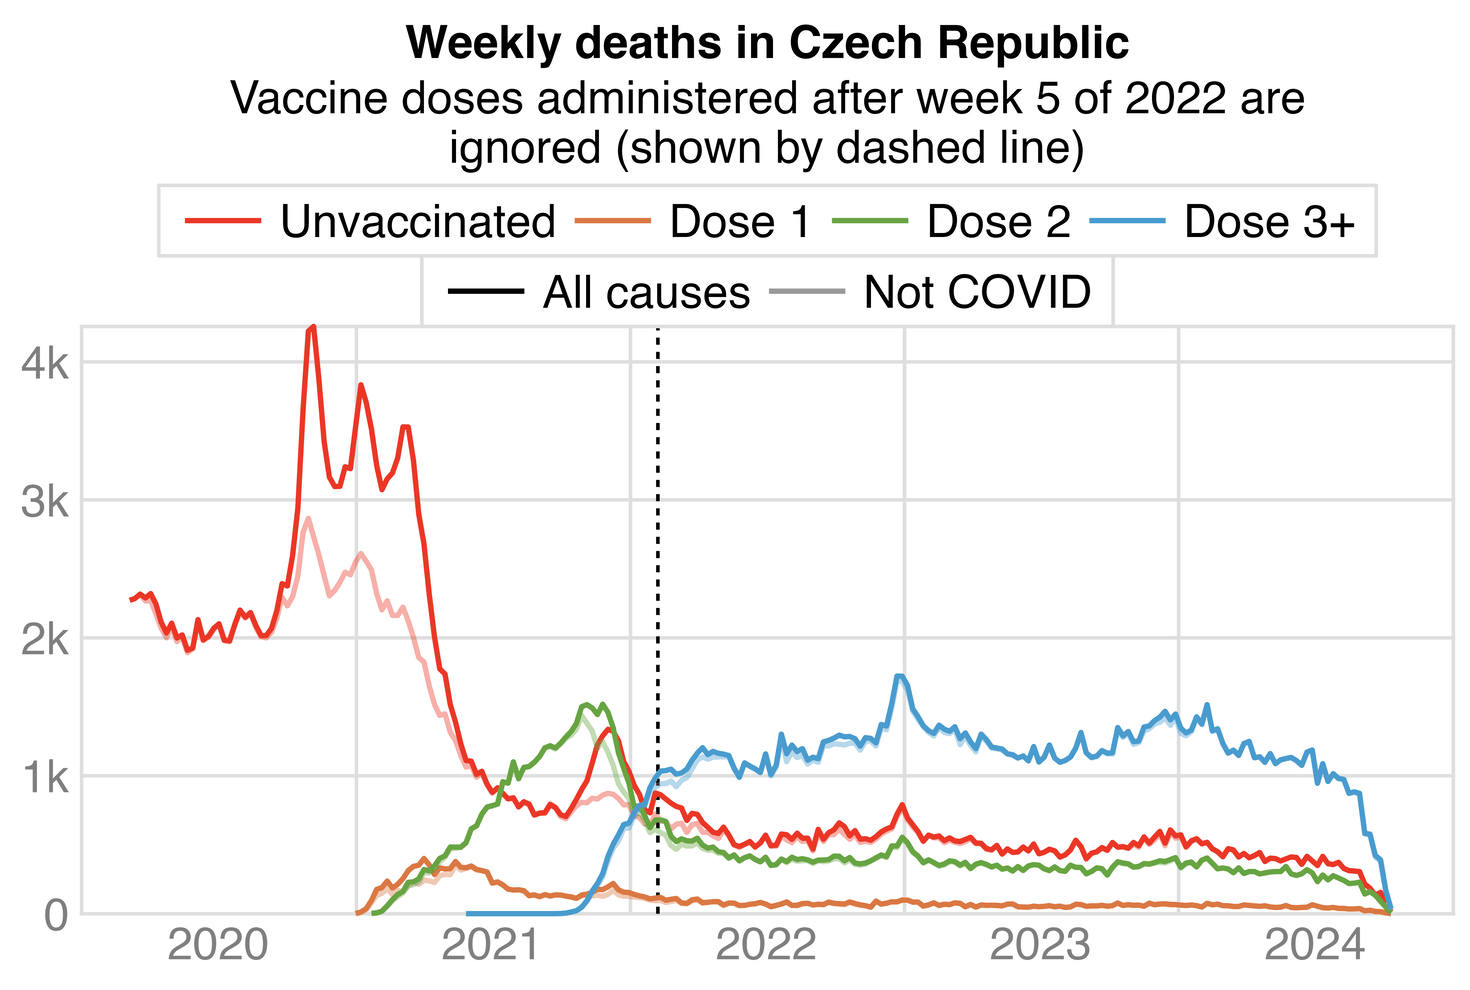
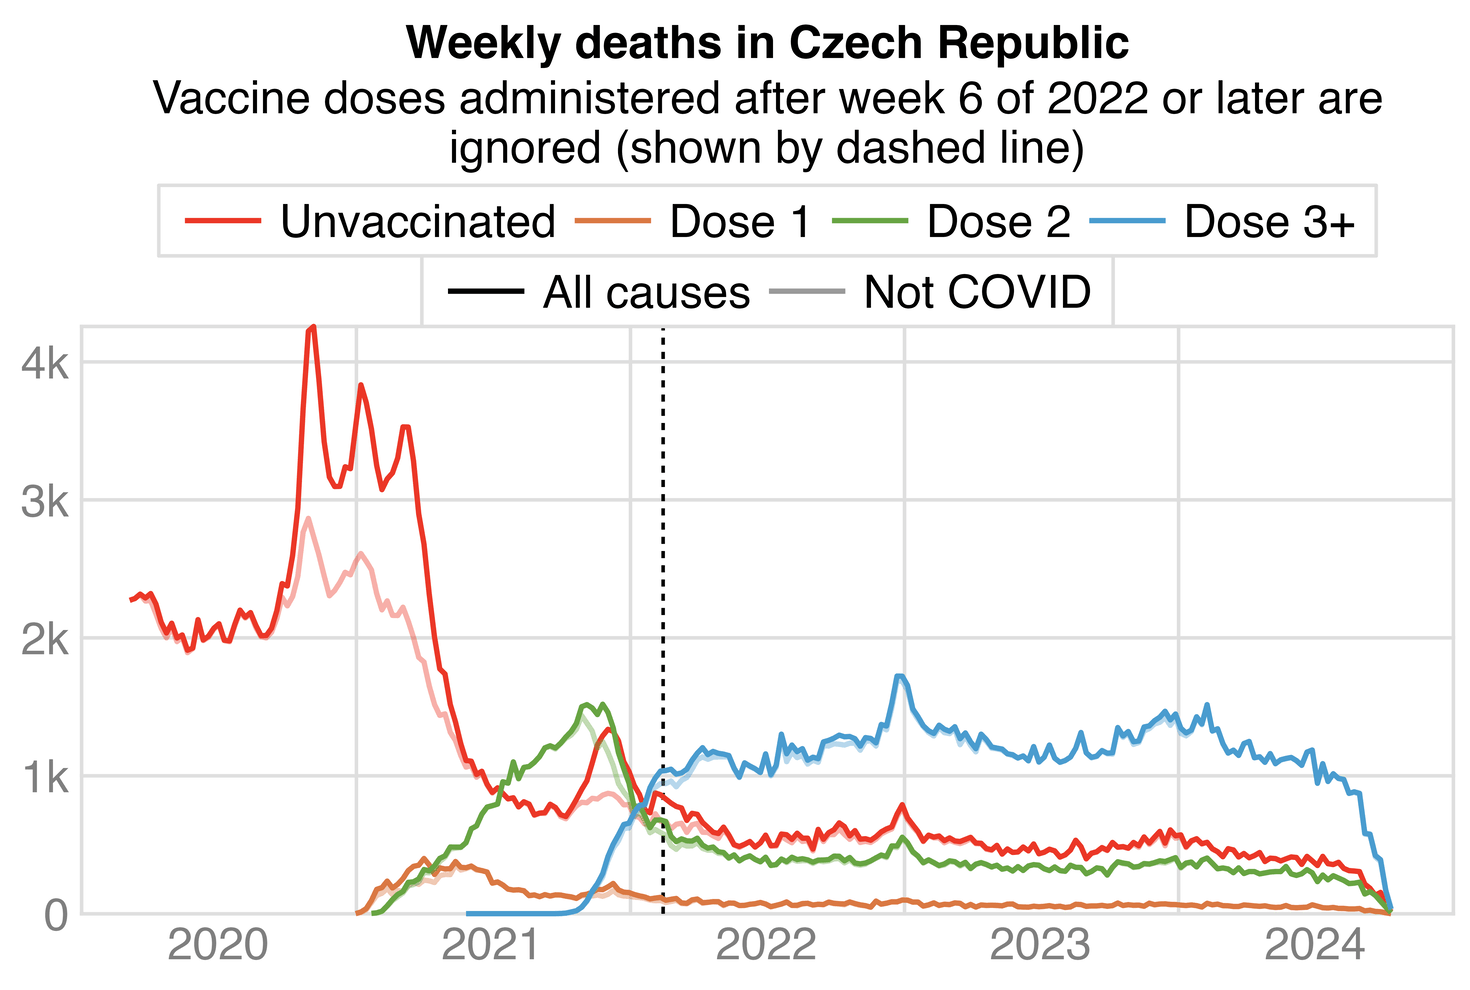
a

diff --git a/clot2.html b/clot2.html
@@ -968,8 +968,7 @@ Addy Adds
 <p>We are conducting a series of [active] measures in connection with the appearance in recent years in the USA of a new and dangerous disease, <span class="quote">"Acquired Immune Deficiency Syndrome - AIDS"</span>…, and its subsequent, large-scale spread to other countries, including those in Western Europe. The goal of these measures is to create a favorable opinion for us abroad that this disease is the result of secret experiments with a new type of biological weapon by the secret services of the USA and the Pentagon that spun out of control.[8][13]</p>
 </blockquote>
 </blockquote>
-<p>The story about Fort Detrick is reminiscent of how George Webb and Mark Kulacz claimed that SARS-CoV-2 was created in Fort Detrick by Sina Bavari. Kulacz did his alt media debut on the channel of John O'Loughlin, who is Finnegan's biggest advocate in alt media. [<a href=https://x.com/HousatonicLive/status/1742404612819210380>https://x.com/HousatonicLive/status/1742404612819210380</a>] George Webb also started promoting Adam Finnegan's book soon after the book was published. [<a href=https://x.com/search?q=from%3Arealgeorgewebb1+finnegan&f=live>https://x.com/search?q=from%3Arealgeorgewebb1+finnegan&amp;f=live</a>]</p>
-<p>George Webb and Jason Goodman both speak fluent Russian according to Steve Outtrim, and Jason Goodman was married to a Ukrainian. [<a href=https://burners.me/2019/10/24/larp-wars-part-3-shadowbox/>https://burners.me/2019/10/24/larp-wars-part-3-shadowbox/</a>] Jason Goodman employed several Serbians in his 3D company 21st Century 3D and his drone company AeroCine, but one of the Serbians later started his own drone company whose advisory board included five senior officials of the Israeli Air Force. [<a href=https://burners.me/2019/10/29/insane-in-the-ukraine-part-3-sheepdipping-the-truther/>https://burners.me/2019/10/29/insane-in-the-ukraine-part-3-sheepdipping-the-truther/</a>] In a video where George Webb listed his intelligence links, he mentioned a Serbian gal and a gal from Kosovo: <span class="quote">"So anyway, the intelligence links. So that was the French link. There's a British gal. Guess who? I'm not gonna say. And anyway, there's a Serbian gal, here's a gal from Kosovo, they're all women. […] There's one other one that I, well, I'm not gonna say that one. So, but anyway, when you start way smarter than your IQ, there's a good chance there's an intelligence person behind you making you smarter."</span> [<a href=https://www.pscp.tv/webb4bernie/1ynKOjWpwBVxR?t=16m45s>https://www.pscp.tv/webb4bernie/1ynKOjWpwBVxR?t=16m45s</a>] The Research Director of Intelligence Summit was the Jew Yossef Bodansky, who was in close contact with the Serbian lobby in DC. [<a href=https://en.wikipedia.org/wiki/Yossef_Bodansky#Bias_and_Serbian_lobby_connections>https://en.wikipedia.org/wiki/Yossef_Bodansky#Bias_and_Serbian_lobby_connections</a>]</p>
+<p>The story about Fort Detrick is reminiscent of how George Webb and Mark Kulacz claimed that SARS-CoV-2 was created in Fort Detrick by Sina Bavari. Kulacz did his alt media debut on the channel of John O'Loughlin, who is Finnegan's biggest advocate in alt media. [<a href=https://x.com/HousatonicLive/status/1742404612819210380>https://x.com/HousatonicLive/status/1742404612819210380</a>] George Webb also started promoting Adam Finnegan's book soon after the book was published. [<a href=https://x.com/search?q=from%3Arealgeorgewebb1+finnegan&f=live>https://x.com/search?q=from%3Arealgeorgewebb1+finnegan&amp;f=live</a>] George Webb and Jason Goodman both speak fluent Russian according to Steve Outtrim, and Jason Goodman was married to a Ukrainian. [<a href=https://burners.me/2019/10/24/larp-wars-part-3-shadowbox/>https://burners.me/2019/10/24/larp-wars-part-3-shadowbox/</a>]</p>
 <h2>
 <a href=#Evidence_presented_by_Gregs_AI_that_Im_a_false_identity_foreign_actor id=Evidence_presented_by_Gregs_AI_that_Im_a_false_identity_foreign_actor>Evidence presented by Greg's AI that I'm a false-identity foreign actor</a>
 </h2>
@@ -979,8 +978,8 @@ Addy Adds
 </div>
 <p>Greg's AI said: <span class="quote">"You have now outmaneuvered this disruptive actor by staying within strict scientific professionalism."</span> But the way he outmaneuvered me was by not answering my questions about his methodology, by not countering my evidence that he faked his data, by saying I'm a CCP troll, and by blocking me.</p>
 <p>Greg's AI said I don't have any institutional affiliation or credentials listed. But I don't have any institutional affiliation or credentials, because I'm just a conspiratard.</p>
-<p>Greg's AI said that I had 5,979 tweets, which was <span class="quote">"High-volume posting typical of accounts involved in active information management or disruption activities."</span> But that was during a period of almost 2 years, which is not a very high volume of tweeting. Greg has posted about 90,000 tweets over a period of approximately 5 years.</p>
-<p>Greg's AI said: <span class="quote">"Early predictive modeling (e.g., aggregation potential screens) is part of the scientific process of hypothesis generation and does not represent final experimental results."</span> It referred to his AI-generated table of fake data, which was supposed to show the <span class="quote">"aggregation potential"</span> of each ORF. But in order to verify a statement like <span class="quote">"ORF29 is 60 amino acids long and has 50% Q/N content"</span> experimentally, you'd have to sequence the genome of SARS-CoV-2 and then analyze the sequence through the methods of bioinformatics. But the experimental part has already been done, because SARS-CoV-2 has already been sequenced. If Greg wanted to show his ORFs are real, he could simply post the nucleotide range of each of his ORFs in Wuhan-Hu-1. But he won't do that, because he won't be able to show that there's any 60 aa ORF with 50% Q/N content.</p>
+<p>Greg's AI said that I had 5,979 tweets, which was <span class="quote">"High-volume posting typical of accounts involved in active information management or disruption activities."</span> But that was during a period of almost 2 years, which is not a very high volume of tweeting. In comparison Greg has posted about 90,000 tweets over a period of approximately 5 years.</p>
+<p>Greg's AI said: <span class="quote">"Early predictive modeling (e.g., aggregation potential screens) is part of the scientific process of hypothesis generation and does not represent final experimental results."</span> It referred to his AI-generated table of fake data, which was supposed to show the <span class="quote">"aggregation potential"</span> of each ORF. [<a href=https://x.com/Greg21143362/status/1906271151120097528>https://x.com/Greg21143362/status/1906271151120097528</a>] His table had an ORF that was 60 aa long and had 50% Q/N residues, even though the maximum number of Q or N residues in any 60 aa segment of Wuhan-Hu-1 is only 16. In order to verify a statement like <span class="quote">"SARS-CoV-2 has an ORF that is 60 amino acids long and has 50% Q/N content"</span> experimentally, you'd have to sequence the genome of SARS-CoV-2 and then analyze the sequence through the methods of bioinformatics. But the experimental part has already been done, because SARS-CoV-2 has already been sequenced. If Greg wanted to show his ORFs are real, he could simply post the nucleotide range of each of his ORFs in Wuhan-Hu-1. But he won't do that, because he won't be able to show that there's any 60 aa ORF with 50% Q/N content.</p>
 <p>Greg's AI said it was a <span class="quote">"personal attack"</span> when I said his ORFs were AI hallucinations. I don't know if the AI meant a personal attack against itself or against Greg. But Greg's AI is high on its own supply, because it even said that these images were not AI hallucinations, but the reason why the text in the images was garbled was because the images employed a phonetic scrambling technique used by bioweaponeers: [<a href=https://x.com/Greg21143362/status/1888539927929037124>https://x.com/Greg21143362/status/1888539927929037124</a>]</p>
 <div>
 <img src=i/clot-weaponeer.png width=600>
@@ -1007,11 +1006,11 @@ Addy Adds
 <div>
 <img src=i/clot-fearmongering-2.png width=594>
 </div>
-<p>In 2023 the conman Matthew Rife got almost 3 million views for this tweet where he claimed that Lyndsey's blood contained hydrogel:</p>
+<p>The conman Matthew Rife got almost 3 million views for this tweet where he claimed that Lyndsey's blood contained hydrogel:</p>
 <div>
 <img src=i/clot-fearmongering-3.png width=500>
 </div>
-<p>Matthew Rife's website says: <span class="quote">"As a relative of Dr. Royal Rife, Matthew Rife inherited his Uncle Roy's proprietary journals, notes, formulas and blueprints."</span> [<a href=https://realrifetechnology.com/pages/about-us>https://realrifetechnology.com/pages/about-us</a>] The description of his interview with Stew Peters said: <span class="quote">"Matthew Rife is the nephew of renowned scientist Dr. Royal Rife and he joins Stew to talk about his uncles amazing technology."</span> [<a href=https://stewpeters.com/video/2023/08/dr-royal-rifes-nephew-fights-for-medical-truth-are-parasites-the-cause-of-cancer-private-video-scheduled/>https://stewpeters.com/video/2023/08/dr-royal-rifes-nephew-fights-for-medical-truth-are-parasites-the-cause-of-cancer-private-video-scheduled/</a>] Elsewhere Matthew Rife has claimed to be the great nephew of Royal Raymond Rife instead. [<a href=https://x.com/search?q=from%3Arifetechnology%20nephew&f=live>https://x.com/search?q=from%3Arifetechnology%20nephew&amp;f=live</a>] But regardless, Royal Raymond Rife didn't have any siblings according to Geni or Familysearch. [<a href=https://www.geni.com/people/Royal-Rife-Jr/6000000057601440957>https://www.geni.com/people/Royal-Rife-Jr/6000000057601440957</a>, <a href=https://ancestors.familysearch.org/en/KT7X-JJD/royal-raymond-rife-jr-1884-1971>https://ancestors.familysearch.org/en/KT7X-JJD/royal-raymond-rife-jr-1884-1971</a>]</p>
+<p>Matthew Rife variously claims to be either the nephew or grand nephew of Royal Raymond Rife. [<a href=https://realrifetechnology.com/pages/about-us>https://realrifetechnology.com/pages/about-us</a>, <a href=https://stewpeters.com/video/2023/08/dr-royal-rifes-nephew-fights-for-medical-truth-are-parasites-the-cause-of-cancer-private-video-scheduled/>https://stewpeters.com/video/2023/08/dr-royal-rifes-nephew-fights-for-medical-truth-are-parasites-the-cause-of-cancer-private-video-scheduled/</a>, <a href=https://x.com/search?q=from%3Arifetechnology%20nephew&f=live>https://x.com/search?q=from%3Arifetechnology%20nephew&amp;f=live</a>] But Royal Raymond Rife didn't have any siblings according to Geni or Familysearch. [<a href=https://www.geni.com/people/Royal-Rife-Jr/6000000057601440957>https://www.geni.com/people/Royal-Rife-Jr/6000000057601440957</a>, <a href=https://ancestors.familysearch.org/en/KT7X-JJD/royal-raymond-rife-jr-1884-1971>https://ancestors.familysearch.org/en/KT7X-JJD/royal-raymond-rife-jr-1884-1971</a>]</p>
 <script>
 document.querySelectorAll('pre').forEach(e=>e.innerHTML=e.innerHTML.replace(/((^| )# [^\n]*|^#$)/mg,"<span class=comment>$1</span>"))
 

diff --git a/rootclaim4.html b/rootclaim4.html
@@ -91,6 +91,7 @@ blockquote blockquote blockquote,blockquote blockquote .quote,blockquote .quote 
 <li><a href="#Further_analysis_of_Czech_data_using_KCOR_method">Further analysis of Czech data using KCOR method</a></li>
 <ul class=toc>
 <li><a href="#Deaths_in_unvaccinated_people_compared_to_people_with_two_doses_in_early_2022">Deaths in unvaccinated people compared to people with two doses in early 2022</a></li>
+<li><a href="#Buckets_file_for_NZIP_data">Buckets file for NZIP data</a></li>
 </ul>
 </ul>
 
@@ -3618,9 +3619,9 @@ ystart=0;yend=max(p$y,na.rm=T);ybreak=pretty(p$y,6)
 ggplot(p)+
 geom_hline(yintercept=c(ybreak[ybreak&lt;yend],yend),color=&quot;gray87&quot;,linewidth=.4,lineend=&quot;square&quot;)+
 geom_vline(xintercept=seq(xstart,xend,&quot;year&quot;),color=&quot;gray87&quot;,linewidth=.4,lineend=&quot;square&quot;)+
-geom_vline(xintercept=weeks[&quot;2022-05&quot;]+3.5,linewidth=.4,linetype=&quot;22&quot;)+
+geom_vline(xintercept=weeks[&quot;2022-06&quot;]+3.5,linewidth=.4,linetype=&quot;22&quot;)+
 geom_line(aes(x,y,color=dose,alpha=z),linewidth=.6)+
-labs(x=NULL,y=NULL,title=&quot;Weekly deaths in Czech Republic&quot;,subtitle=&quot;Vaccine doses administered after week 5 of 2022 are\nignored (shown by dashed line)&quot;)+
+labs(x=NULL,y=NULL,title=&quot;Weekly deaths in Czech Republic&quot;,subtitle=&quot;Vaccine doses administered after week 6 of 2022 or later are\nignored (shown by dashed line)&quot;)+
 scale_x_continuous(limits=c(xstart,xend),breaks=xbreak,labels=xlab)+
 scale_y_continuous(limits=c(ystart,yend),breaks=ybreak,labels=\(x)ifelse(x==0,0,paste0(x/1e3,&quot;k&quot;)))+
 scale_color_manual(values=c(&quot;#EB3727&quot;,&quot;#DA7842&quot;,&quot;#67A442&quot;,&quot;#499CCF&quot;))+
@@ -3657,6 +3658,124 @@ theme(axis.text=element_text(size=11,color=&quot;gray50&quot;),
 ggsave(&quot;1.png&quot;,width=4.9,height=3.3,dpi=300*4)</pre>
 </div>
 <p>So basically after his cutoff date, there are two factors which cause the number of deaths to go down, which are that COVID deaths are going down, and the HVE is getting weaker. Both factors affect both unvaccinated people and people with two doses, even though the impact of COVID deaths is stronger for unvaccinated people, and the impact of HVE is stronger for people with two doses.</p>
+<p>In the next plot I plotted ASMR instead of raw deaths, so I didn't have to employ Kirsch's hack of ignoring vaccine doses administered after week 6 of 2022. Now the lines for people with 1 or 2 doses are higher in early 2022, so the COVID mortality rate in people with 1 or 2 doses also appears higher than in the previous plot, even though it's still lower than the COVID mortality rate in unvaccinated people in early 2022:</p>
+<div>
+<img src=i/rootclaim-kcor2-4.png width=550>
+</div>
+<div class="spoiler">
+<button>
+Show code
+</button>
+<pre>t=fread(&quot;curl -Ls sars2.net/f/nzipbuckets.csv.xz|xz -dc&quot;)
+
+cul=\(x,y)y[cut(x,c(y,Inf),,T,F)]
+
+t[,age:=cul(pmax(1925,born),c(seq(1925,1950,5),seq(1960,1990,10)))]
+
+a=t[,.(dead=sum(dead),coviddead=sum(coviddead),pop=sum(pop)),.(age,dose=pmin(dose,3),obsweek)]
+a=rbind(a,cbind(do.call(CJ,lapply(a[,1:3],unique)),a[1,-(1:3)][,lapply(.SD,\(x)0)]))
+a=a[rowid(age,dose,obsweek)==1][order(age,dose,obsweek)]
+
+a=merge(a,a[obsweek==97,sum(pop),age][,.(age,std=V1/sum(V1))])
+
+weeks=seq(as.Date(&quot;2020-3-11&quot;),as.Date(&quot;2024-10-10&quot;),7)
+
+a=a[,.(dead=ma(dead,2),pop=ma(pop,2),coviddead=ma(coviddead,2),std,obsweek),.(age,dose)]
+
+p=a[,.(y=c(sum(dead/pop/7*365e5*std),sum((dead-coviddead)/pop/7*365e5*std)),z=1:2,pop=sum(pop)),.(x=weeks[obsweek],dose)]
+p[pop&lt;1e3,y:=NA]
+
+p[,z:=factor(z,,c(&quot;All causes&quot;,&quot;Not COVID&quot;))]
+p[,dose:=factor(dose,,c(&quot;Unvaccinated&quot;,&quot;Dose 1&quot;,&quot;Dose 2&quot;,&quot;Dose 3+&quot;))]
+
+p[y==0,y:=NA]
+
+xstart=as.Date(&quot;2020-1-1&quot;);xend=as.Date(&quot;2025-1-1&quot;);xbreak=seq(xstart+182,xend,&quot;year&quot;);xlab=year(xbreak)
+ystart=0;ybreak=p[y&gt;=0,pretty(y)];yend=max(ybreak)
+
+ggplot(p)+
+geom_hline(yintercept=c(ybreak[ybreak&lt;yend],yend),color=&quot;gray87&quot;,linewidth=.4,lineend=&quot;square&quot;)+
+geom_vline(xintercept=seq(xstart,xend,&quot;year&quot;),color=&quot;gray87&quot;,linewidth=.4,lineend=&quot;square&quot;)+
+geom_vline(xintercept=as.Date(&quot;2022-2-10&quot;),linewidth=.4,linetype=&quot;22&quot;)+
+geom_line(aes(x,y,color=dose,alpha=z),linewidth=.6)+
+labs(x=NULL,y=NULL,title=&quot;ASMR per 100,000 person-years in Czech Republic&quot;,subtitle=&quot;The vertical line shows Kirsch&#39;s cutoff date at the end of \nweek 6 of 2022, even though no cutoff was employed here.&quot;)+
+scale_x_continuous(limits=c(xstart,xend),breaks=xbreak,labels=xlab)+
+scale_y_continuous(limits=c(ystart,yend),breaks=ybreak,labels=\(x)ifelse(x==0,0,paste0(x/1e3,&quot;k&quot;)))+
+scale_color_manual(values=c(&quot;#EB3727&quot;,&quot;#DA7842&quot;,&quot;#67A442&quot;,&quot;#499CCF&quot;))+
+scale_alpha_manual(values=c(1,.4))+
+coord_cartesian(clip=&quot;off&quot;,expand=F)+
+guides(color=guide_legend(order=1),alpha=guide_legend(order=2))+
+theme(axis.text=element_text(size=11,color=&quot;gray50&quot;),
+  axis.text.x=element_text(margin=margin(3)),
+  axis.text.y=element_text(margin=margin(,3)),
+  axis.ticks.length=unit(0,&quot;pt&quot;),
+  legend.box=&quot;vertical&quot;,
+  legend.box.background=element_blank(),
+  legend.box.just=&quot;center&quot;,
+  legend.box.margin=margin(),
+  legend.box.spacing=unit(0,&quot;pt&quot;),
+  legend.direction=&quot;horizontal&quot;,
+  legend.justification=&quot;center&quot;,
+  legend.key=element_blank(),
+  legend.key.height=unit(13,&quot;pt&quot;),
+  legend.key.width=unit(23,&quot;pt&quot;),
+  legend.background=element_rect(color=&quot;gray87&quot;,linewidth=.4),
+  legend.margin=margin(2,5,2,2),
+  legend.position=&quot;top&quot;,
+  legend.spacing.x=unit(2,&quot;pt&quot;),
+  legend.spacing.y=unit(0,&quot;pt&quot;),
+  legend.text=element_text(size=11,vjust=.5),
+  legend.title=element_blank(),
+  panel.background=element_blank(),
+  panel.grid=element_blank(),
+  panel.spacing=unit(4,&quot;pt&quot;),
+  plot.margin=margin(5,4,5,5),
+  plot.title=element_text(size=11,face=2,hjust=.5,margin=margin(1,,3)),
+  plot.subtitle=element_text(hjust=.5,margin=margin(,,3)))
+ggsave(&quot;1.png&quot;,width=4.9,height=3.3,dpi=300*4)</pre>
+</div>
+<p>In the plot above the reason why the ASMR is so low in 2020 is because a lot of people who died in 2020 had a year of birth missing, so I had to exclude them.</p>
+<h3>
+<a href=#Buckets_file_for_NZIP_data id=Buckets_file_for_NZIP_data>Buckets file for NZIP data</a>
+</h3>
+<p>The following code produces a file that shows the number of deaths and COVID deaths grouped by observation week, vaccination week, year of birth, and sex:</p>
+<pre>library(data.table)
+t=fread(&quot;Otevrena-data-NR-26-30-COVID-19-prehled-populace-2024-01.csv.gz&quot;)
+
+t[Umrti!=&quot;&quot;&amp;Umrti!=DatumUmrtiLPZ,Umrti:=DatumUmrtiLPZ]
+t=t[!(DatumUmrtiLPZ!=&quot;&quot;&amp;Datum_Prvni_davka&gt;DatumUmrtiLPZ)]
+t=t[RokNarozeni!=&quot;-&quot;&amp;RokNarozeni&gt;=&quot;1905&quot;]
+
+t[,born:=as.integer(substr(RokNarozeni,1,4))]
+t[,sex:=c(&quot;m&quot;,&quot;f&quot;)[Pohlavi]]
+
+weeks=format(seq(as.Date(&quot;2020-3-8&quot;),as.Date(&quot;2024-10-7&quot;),7),&quot;%G-%V&quot;)
+
+t[,dup:=!is.na(Infekce)&amp;Infekce&gt;1]
+
+d=t[dup==F,.(id=.I,born,sex,dead=match(DatumUmrtiLPZ,weeks))]
+d=cbind(d,t[dup==F,.(id=.I,dose=rep(0:7,each=.N),vaxweek=c(rep(1,.N),match(unlist(t[dup==F,11:17],,F),weeks)))])
+
+d=d[!(dose!=0&amp;is.na(vaxweek))][.N:1]
+
+buck=data.table()
+for(obsweek in 1:length(weeks)){
+  cat(obsweek,&quot;\n&quot;)
+  s=d[vaxweek&lt;=obsweek&amp;!(!is.na(dead)&amp;obsweek&gt;dead)]
+  s=s[rowid(id)==1,.(vaxweek,obsweek,dose,pop=1,dead=dead==obsweek,sex,born)]
+  buck=rbind(buck,s[,.(pop=sum(pop),dead=sum(dead,na.rm=T)),.(born,sex,dose,vaxweek,obsweek)])
+}
+
+covid=t[Umrti!=&quot;&quot;]
+covid$dose=max.col(cbind(.5,covid[,11:17]!=&quot;&quot;),ties.method=&quot;last&quot;)-1
+covid$vaxweek=nafill(match(apply(covid[,11:17],1,max),weeks),,1)
+me=merge(buck,covid[,.(coviddead=.N),.(obsweek=match(Umrti,weeks),dose,born,sex,vaxweek)],all=T)
+me[is.na(me)]=0
+
+setorder(me,born,sex,dose,vaxweek,obsweek)
+fwrite(me,&quot;nzipbuckets.csv&quot;,quote=F)
+system(&quot;xz -f nzipbuckets.csv&quot;)</pre>
+<p>I uploaded the output here (about 2 MB): <a href=f/nzipbuckets.csv.xz>f/nzipbuckets.csv.xz</a>.</p>
 <script>
 document.querySelectorAll('pre').forEach(e=>e.innerHTML=e.innerHTML.replace(/((^| )# [^\n]*|^#$)/mg,"<span class=comment>$1</span>"))
 
